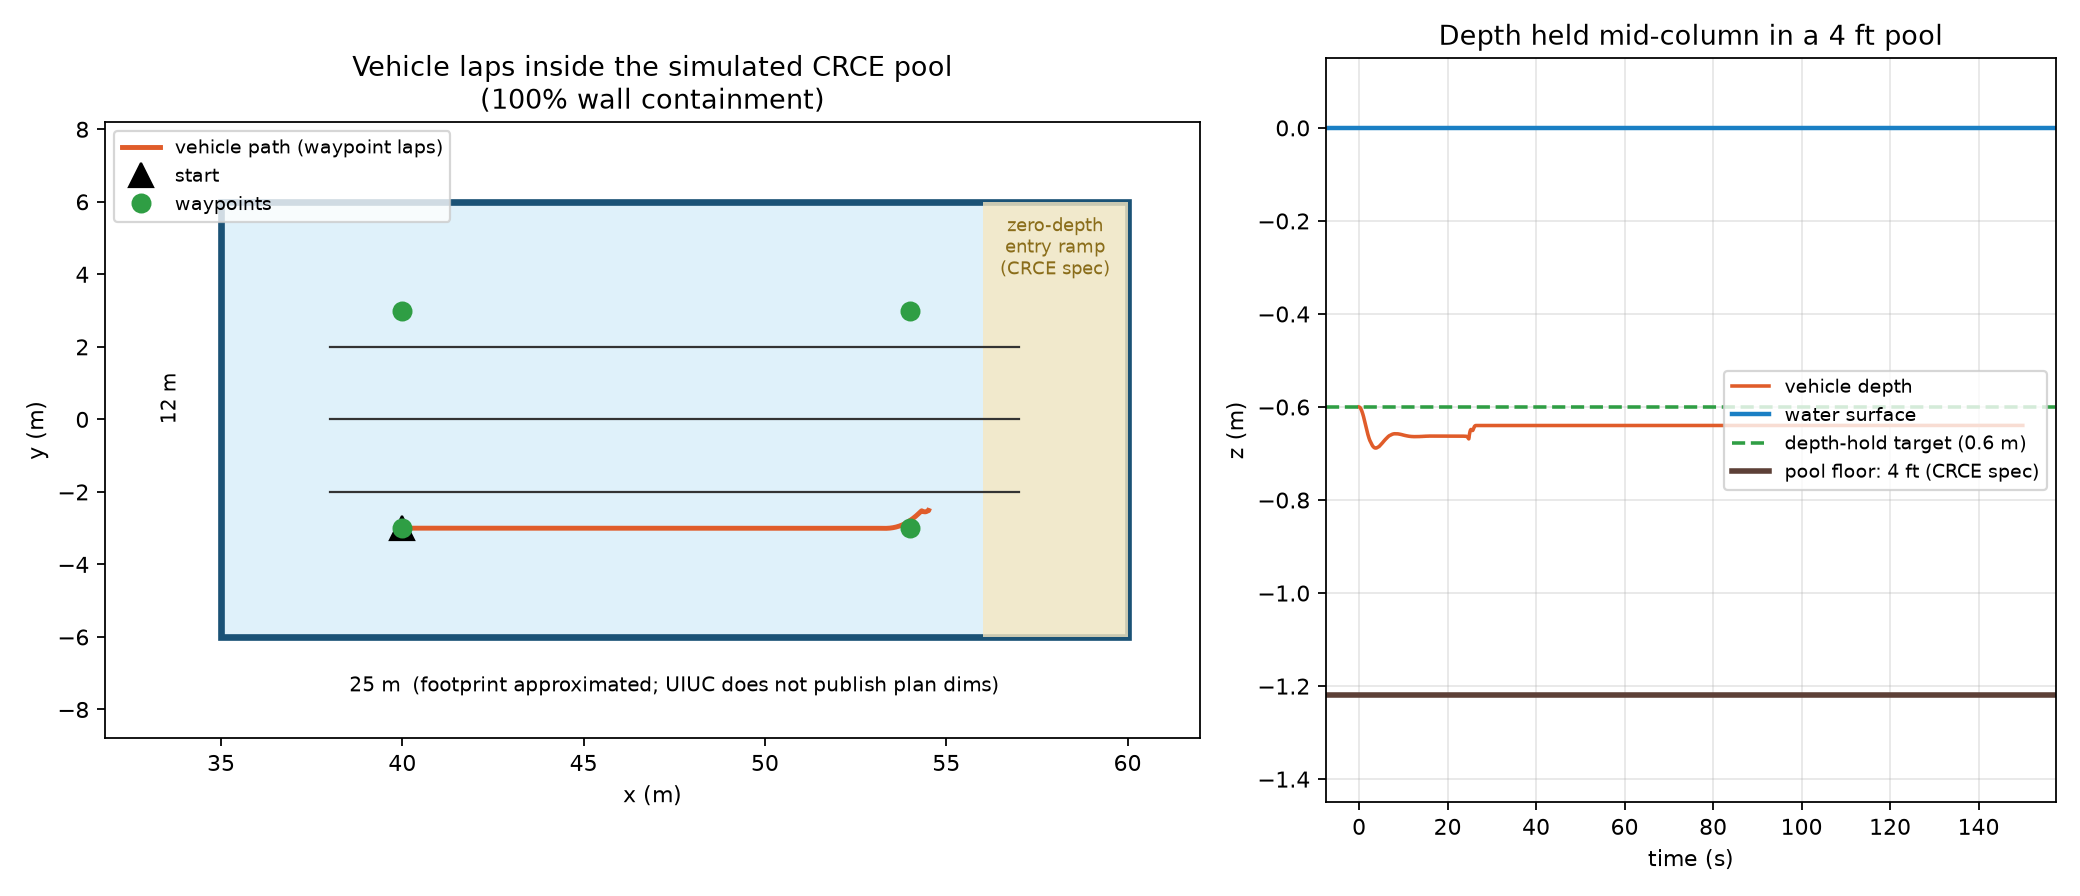
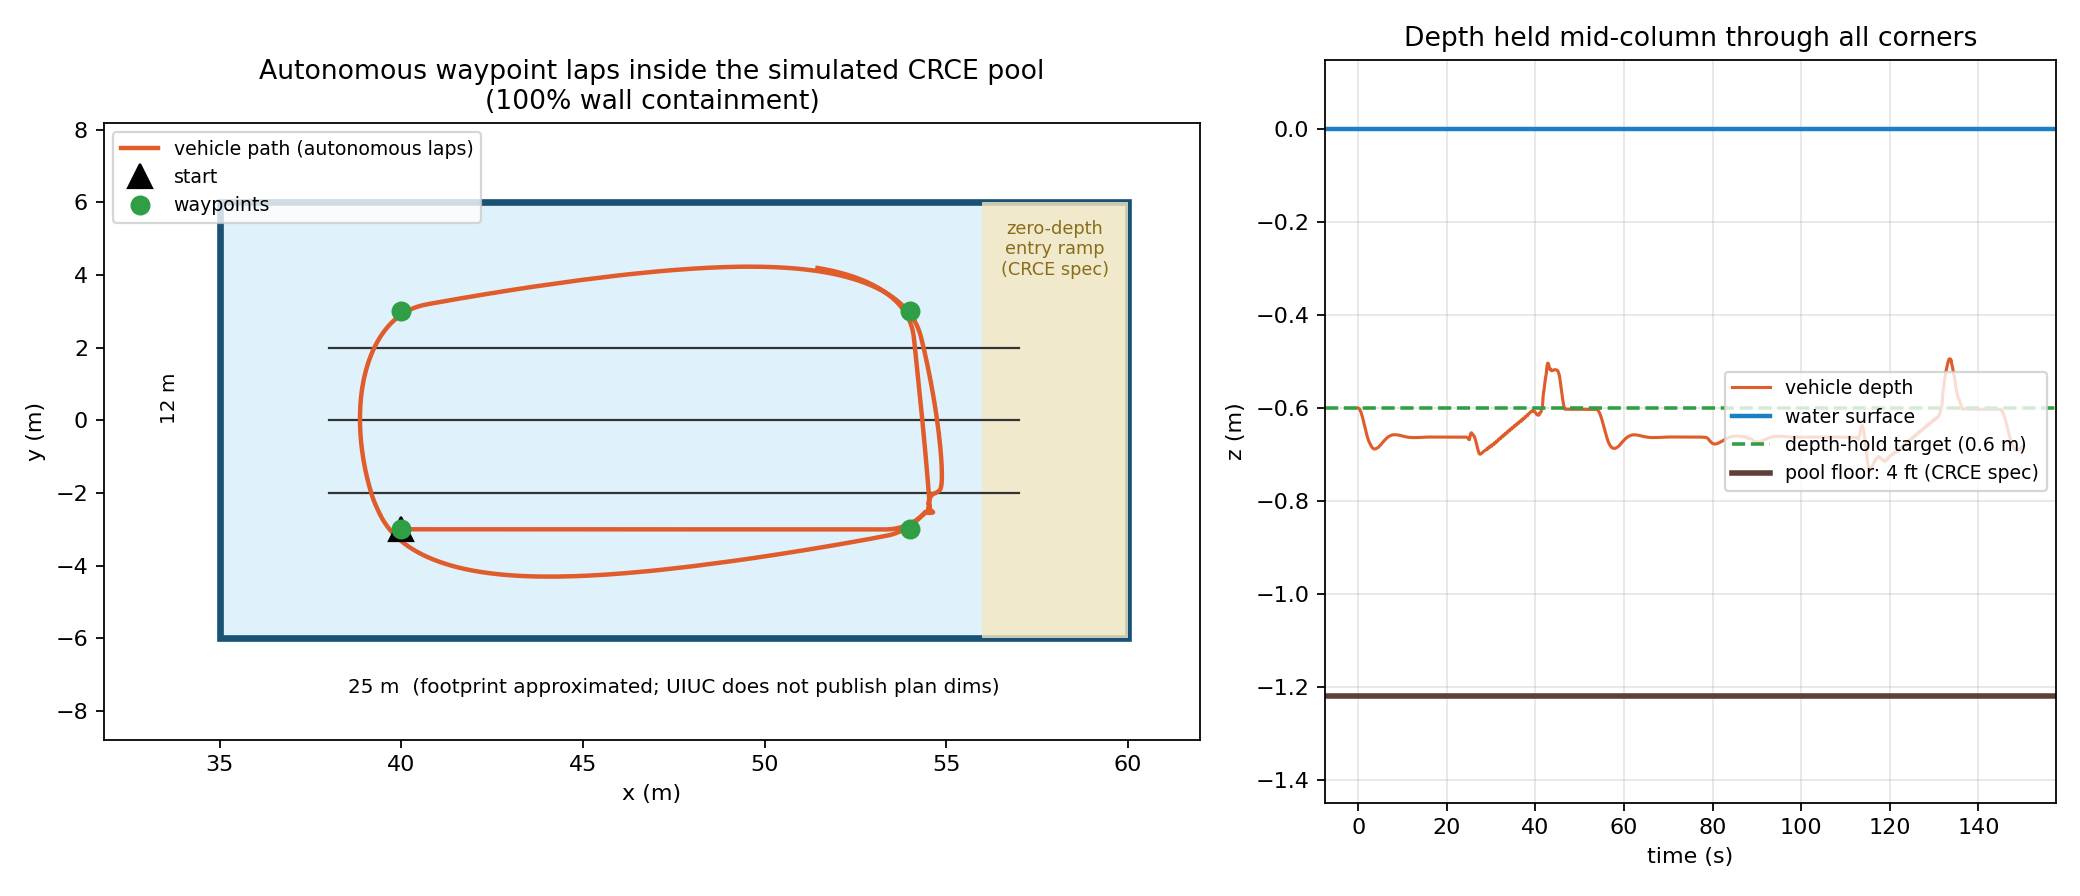
Pool: full autonomous laps (physics-sleep watchdog), exact altitude match with real CRCE data

diff --git a/sim/pool_debug.py b/sim/pool_debug.py
@@ -1,0 +1,78 @@
+"""Minimal corner-turn diagnostic: spawn at the lap corner, command one waypoint
+90 degrees to the left, log heading dynamics every tick. No cameras."""
+import json
+import math
+import sys
+
+import numpy as np
+import holoocean
+
+from bluerov2_standard_model import BlueROV2StandardModel
+from mavros_bridge import SCENARIO_JSON, AGENT_NAME, WATER_SURFACE_Z, quat_to_rot_matrix_xyzw, DYN_QUAT
+from pool_capture import spawn_pool
+
+WPS = [(40.0,-3.0),(54.0,-3.0),(54.0,3.0),(40.0,3.0)]
+
+
+def yaw_of(q):
+    x, y, z, w = q
+    return math.atan2(2 * (w * z + x * y), 1 - 2 * (y * y + z * z))
+
+
+with open(SCENARIO_JSON) as f:
+    scenario = json.load(f)
+agent = scenario["agents"][0]
+agent["control_scheme"] = 2
+agent["location"] = [40.0, -3.0, -0.65]
+agent["rotation"] = [0, 0, 0]
+for s in agent["sensors"]:
+    if s["sensor_type"] == "DynamicsSensor":
+        s["Hz"] = scenario["ticks_per_sec"]
+
+model = BlueROV2StandardModel()
+rows, t, last_dyn, wpi = [], 0.0, None, [0]
+freeze_hist, wakes = [], 0
+with holoocean.make(scenario_cfg=scenario, show_viewport=False) as env:
+    if "--props" in sys.argv:
+        spawn_pool(env)
+    while t < 70.0:
+        if last_dyn is not None:
+            quat = last_dyn[DYN_QUAT]
+            R = quat_to_rot_matrix_xyzw(quat)
+            nu = np.concatenate([R.T @ last_dyn[3:6], R.T @ last_dyn[12:15]])
+            pos = last_dyn[6:9]
+            wp = WPS[wpi[0]]
+            if math.hypot(wp[0]-pos[0], wp[1]-pos[1]) < 1.2:
+                wpi[0] = (wpi[0] + 1) % len(WPS)
+                wp = WPS[wpi[0]]
+            err = math.atan2(wp[1] - pos[1], wp[0] - pos[0]) - yaw_of(quat)
+            err = math.atan2(math.sin(err), math.cos(err))
+            r = last_dyn[14]
+            d = float(np.clip(1.6 * err - 0.9 * r, -0.45, 0.45))
+            fwd = 0.33 if abs(err) < 0.9 else 0.18
+            cmd = np.zeros(6)
+            cmd[[0, 2]] = np.clip(fwd + d, -0.8, 0.8)
+            cmd[[1, 3]] = np.clip(fwd - d, -0.8, 0.8)
+            cmd[4:6] = float(np.clip(-0.26 + 0.8 * (-0.6 - pos[2]) - 0.8 * last_dyn[5], -0.6, 0.6))
+            nu_dot = model.step(cmd, quat, nu, z_world=float(pos[2]), surface_z=WATER_SURFACE_Z)
+            env.act(AGENT_NAME, np.concatenate([R @ nu_dot[:3], R @ nu_dot[3:]]))
+            # physics-sleep watchdog: if commanded to move but frozen, wake with a teleport
+            freeze_hist.append(pos.copy())
+            if len(freeze_hist) > 100:
+                freeze_hist.pop(0)
+                if np.linalg.norm(pos - freeze_hist[0]) < 0.002 and abs(fwd) > 0.05:
+                    env.agents[AGENT_NAME].teleport(location=pos + np.array([0, 0, 0.003]))
+                    wakes += 1
+                    freeze_hist.clear()
+            rows.append([t, pos[0], pos[1], math.degrees(yaw_of(quat)), math.degrees(err), r, wpi[0]])
+        state = env.tick()
+        t = float(state.get("t", t))
+        if "DynamicsSensor" in state:
+            last_dyn = np.asarray(state["DynamicsSensor"], dtype=float)
+
+a = np.array(rows)
+np.savetxt(sys.argv[1] if len(sys.argv) > 1 else "corner_debug.csv", a,
+           delimiter=",", header="t,x,y,yaw_deg,err_deg,r,wp", comments="")
+print(f'wake-ups: {wakes}')
+for i in range(0, len(a), 400):
+    print(f"t={a[i,0]:5.1f}  pos=({a[i,1]:5.1f},{a[i,2]:5.1f})  yaw={a[i,3]:7.1f}  err={a[i,4]:7.1f}  wp={int(a[i,6])}")

diff --git a/sim/pool_capture.py b/sim/pool_capture.py
@@ -134,6 +134,7 @@ def main():
     model = BlueROV2StandardModel()
     ticks = float(scenario["ticks_per_sec"])
     chase, top, track = [], [], []
+    freeze_hist = []
     t, last_dyn = 0.0, None
     wp_state = {"i": 0}
 
@@ -148,6 +149,15 @@ def main():
                 nu_dot = model.step(cmd, quat, nu, z_world=float(last_dyn[8]),
                                     surface_z=WATER_SURFACE_Z)
                 env.act(AGENT_NAME, np.concatenate([R @ nu_dot[:3], R @ nu_dot[3:]]))
+                # physics-sleep watchdog: engine sleeps slow bodies and then
+                # ignores forces; a tiny teleport wakes it
+                pos = last_dyn[6:9]
+                freeze_hist.append(pos.copy())
+                if len(freeze_hist) > 100:
+                    freeze_hist.pop(0)
+                    if np.linalg.norm(pos - freeze_hist[0]) < 0.002 and np.abs(cmd[:4]).max() > 0.05:
+                        env.agents[AGENT_NAME].teleport(location=pos + np.array([0, 0, 0.003]))
+                        freeze_hist.clear()
             env.act("cam0", np.zeros(6))
             state = env.tick()
             t = float(state.get("t", t + 1.0 / ticks))

diff --git a/README.md b/README.md
@@ -111,6 +111,10 @@ Useful flags for `mavros_bridge.py`:
   with a comment saying where its value came from.
 - The pool footprint (25 m x 12 m) is an approximation; the depth and entry ramp are
   from the published CRCE specs.
+- **The physics engine puts slow bodies to sleep** and then ignores applied forces
+  (the vehicle can freeze mid-run after slowing for a turn). `pool_capture.py` has a
+  watchdog that wakes it with a tiny teleport; keep it if you write new control loops.
+  `pool_debug.py` is the no-camera diagnostic used to find this.
 - Vehicle drag/added-mass coefficients come from published system identification of
   the BlueROV2 (Wu 2018) plus a thrust calibration against our own pool recording.
   When the lab measures its own coefficients, they drop into
